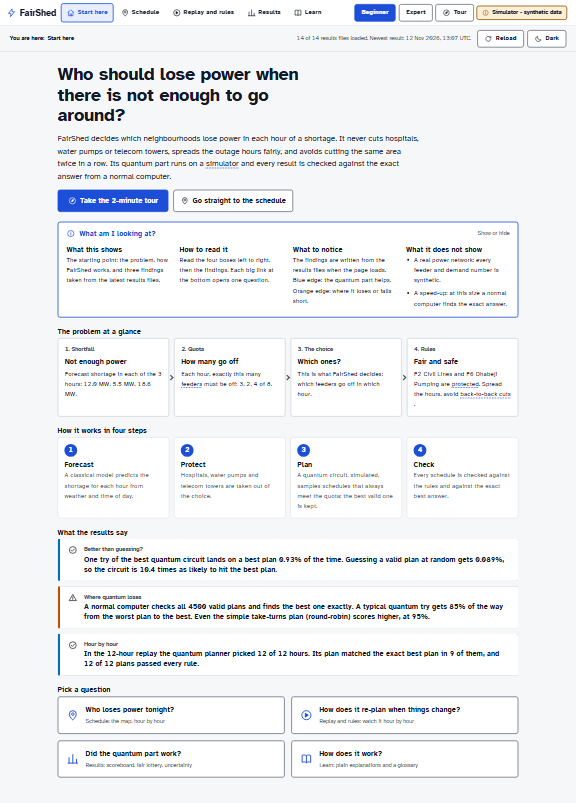
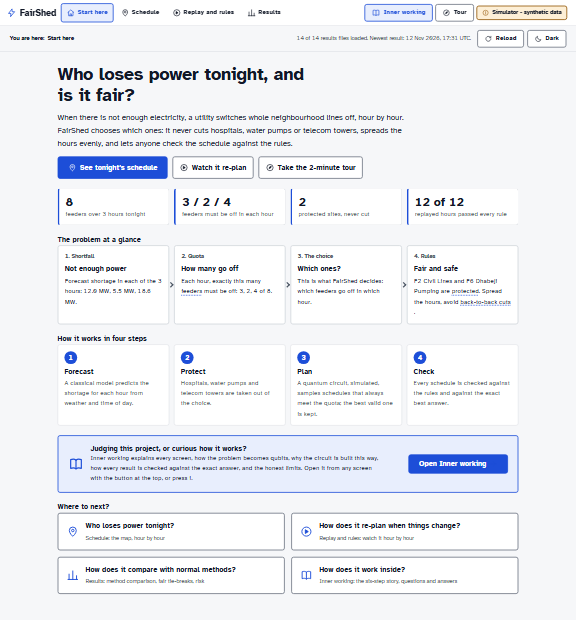
docs: UI guide, README, cheatsheet, demo script and screenshots for the Inner working redesign

Changed region(s): [[0.0938, 0.521, 0.9062, 0.9806], [0.0, 0.0, 0.9062, 0.521], [0.4375, 0.0, 1.0, 0.0919]]

diff --git a/scripts/fill_report.py b/scripts/fill_report.py
@@ -860,8 +860,8 @@ Start the dashboard first: `python scripts/tasks.py ui`, open http://localhost:8
 
 ## 1:20 to 2:00 Quantum stages and real numbers
 
-- **On screen:** Results > Scoreboard (summary, table, proof checklist), then Results > Fair
-  lottery, then Results > Uncertainty and counting.
+- **On screen:** Results > Compare methods (verdict, the four-row table, the "Why this combination"
+  cards, proof checklist), then Results > Fair tie-breaks, then Results > Risk and counting.
 - **Caption:** "Constraint-preserving circuits: every sample is a valid plan."
 - **Voice-over:** "Each hour starts in a Dicke state, so every sample meets the quota and never
   touches a protected feeder. The best variant, {g('best_q_label')}, reaches approximation ratio
@@ -873,7 +873,7 @@ Start the dashboard first: `python scripts/tasks.py ui`, open http://localhost:8
 
 ## 2:00 to 2:30 Honest limits and scale
 
-- **On screen:** Results > Bigger problems: the chart, then the callout "This is not a quantum advantage".
+- **On screen:** Results > Bigger cities: the three tiles and the chart, then the callout "This is not a quantum advantage".
 - **Caption:** "Simulator only. No speed-up claimed."
 - **Voice-over:** "Be clear about the limits. This runs on a simulator, the data is synthetic, and
   at {g('qubits')} qubits a classical brute force finds the exact answer, which is better than our

diff --git a/docs/UI_GUIDE.md b/docs/UI_GUIDE.md
@@ -14,15 +14,28 @@ offline). Screenshots below are in `media/screenshots/` and are regenerated with
 
 ## How every screen works
 
-- **Top bar:** five sections (Start here, Schedule, Replay and rules, Results, Learn), the
-  Beginner and Expert switch, the Tour button and the permanent "Simulator - synthetic data" badge.
+The screens are built for the people who use the schedule. Every explanation sits behind one
+button, **Inner working**, so the pages stay clean and a judge can open the detail on demand.
+
+- **Top bar:** four sections (Start here, Schedule, Replay and rules, Results), the
+  **Inner working** button, the Tour button and the permanent "Simulator - synthetic data" badge.
+- **Inner working button** (or press `i`): opens a side panel about the screen behind it, in this
+  order: one sentence, what you are looking at and how to read it, what to notice (built from the
+  data), how it was made (each step tagged Quantum or Classical), what it does not show, the
+  questions judges ask, and **For specialists** (qubit counts, formulas, every run, raw JSON).
+  On wide screens it sits beside the page; Esc or Close shuts it.
+- **Inner working pages** (linked at the top of the panel, not in the main navigation):
+  - *How FairShed works*: the whole project in six steps (problem, into qubits, the circuit and
+    why, checked against the exact answer, more quantum tools, honest limits), a 30-second
+    version, how to reproduce, and a judging checklist mapped to the rubric.
+  - *Questions judges ask*: 23 short answers in four groups, numbers read from the results.
+  - *The methods*: every algorithm in five parts, marked "Part of the plan" or "Check or comparison".
+  - *Glossary*: every technical word.
 - **Status row:** "You are here", how many results files loaded and when the newest was written,
   Reload, and the light or dark theme.
-- **"What am I looking at?"** on every screen: what it shows, how to read it, what to notice
-  (built from the data), and what it does not show. Open on the first visit, then remembered.
 - **Dotted-underlined words** open a glossary card (click, tap or Enter; Esc closes).
-- **Beginner** shows plain explanations. **Expert** adds qubit counts, formulas, bitstrings,
-  method notes and a raw JSON viewer.
+- **Charts:** each has a takeaway sentence as its title, a "Look at" line saying where to look
+  first, and "How to read this chart".
 - **Missing data:** a red banner names any missing or broken results file, and the affected panel
   says "Not available" instead of showing numbers.
 
@@ -42,15 +55,21 @@ offline). Screenshots below are in `media/screenshots/` and are regenerated with
 
 ![Schedule](../media/screenshots/schedule.png)
 
-- **Read it:** the map shows each feeder as On (teal, check), Off (amber, stripes, power icon) or
-  Protected (blue, shield). Play or drag the slider to move through the hours. Click a feeder for
-  "Off this hour because ...".
-- **Fairness choice:** Least total harm, Balanced, Most even. It switches between plans computed
-  in advance; nothing is re-optimised in the browser.
-- **Numbers to remember:** the headline says how the plan compares with round-robin and whether it
-  is the exact best plan for those weights. See the dashboard.
-- **Say to a judge:** "The quota comes from the forecast; the choice of which feeders comes from
-  the circuit, and we show when that choice is not the exact best one."
+- **Menu bar (top):** *Evening* (Normal evening, Heatwave), *Priority* (Least harm, Balanced,
+  Most even: plans computed in advance along the harm and evenness trade-off) and *Plan made by*
+  (FairShed, or the exact search, round-robin or a random plan for comparison). Nothing is
+  re-optimised in the browser.
+- **Showing line:** which plan is on screen, whether it follows every rule, how its score compares
+  with taking turns, and the exact best score.
+- **Hour control, map and "This hour":** Play or drag the slider. The map shows each area as On
+  (teal, check), Off (amber, stripes, power icon) or Protected (blue, shield); the list beside it
+  says who is off now and why, in one line each. Click an area for the full reason.
+- **Tonight's timetable:** areas by hours, the way load-shedding schedules are published, with the
+  hours each area is off tonight. Click a cell to jump to that hour and read why. Cells that break a
+  rule are outlined in red and listed under the table (try Heatwave with round-robin).
+- **Say to a judge:** "The quota comes from the forecast; the choice of which areas comes from the
+  circuit, and we show when that choice is not the exact best one. Switch to Heatwave and
+  round-robin to see the rules it breaks."
 
 ## Replay and rules: watch it hour by hour
 
@@ -74,44 +93,49 @@ offline). Screenshots below are in `media/screenshots/` and are regenerated with
 - **Say to a judge:** "Anyone can audit a published schedule. Round-robin breaks the back-to-back
   limit in the heatwave scenario; the exact plan passes."
 
-## Results: scoreboard
+## Results: compare methods
 
-![Scoreboard](../media/screenshots/results-scoreboard.png)
+![Compare methods](../media/screenshots/results-scoreboard.png)
 
-- **Read it:** the summary box first. Then the table: valid tries, chance one try finds the best
-  plan (next to the chance of a random guess), how close to best (0 to 100%), and verdicts computed
-  from the data, including "Worse than the exact answer".
-- **Numbers to remember:** cheatsheet rows 1 to 4. The proof checklist at the bottom groups the
-  automated checks.
-- **Say to a judge:** "The constraint-preserving circuits always give valid plans and beat random
-  guessing, but they do not beat the exact answer, and round-robin's single plan scores higher
-  than the average quantum try."
+- **Read it:** the verdict box first. Then the table: four rows, the classical methods a utility
+  could use (exact search, round-robin, a random valid plan) against FairShed's planner, on the
+  same evening and the same score. Columns: score (and how close to the best), finds the very best
+  plan, follows every rule, weighs harm and history, fair when plans tie.
+- **Why this combination:** four cards, each changing one part of the circuit (valid-only start,
+  tuning, mixer, best of many tries) with the separate runs as two bars. FairShed's choice is the
+  highlighted bar. Every quantum variant, including Grover Adaptive Search, is listed under
+  "For specialists" in the Inner working panel.
+- **Numbers to remember:** cheatsheet rows 1 to 5 and 12.
+- **Say to a judge:** "FairShed's plan gets 98% of the way to the exact best, follows every rule,
+  and is the only method that gives tied plans an equal chance. The exact search still wins on
+  score at this size, and we say so on the page."
 
-## Results: fair lottery
+## Results: fair tie-breaks
 
-![Fair lottery](../media/screenshots/results-lottery.png)
+![Fair tie-breaks](../media/screenshots/results-lottery.png)
 
 - **Read it:** each bar is one plan that ties for best; equal bars mean an equal chance.
 - **Say to a judge:** "The Grover mixer sees a plan only through its score, so tied plans get
   exactly the same probability. Choosing among ties is a fair lottery, not circuit bias."
 
-## Results: uncertainty and counting
+## Results: risk and counting
 
-![Uncertainty and counting](../media/screenshots/results-uncertainty.png)
+![Risk and counting](../media/screenshots/results-uncertainty.png)
 
 - **Read it:** on each ruler the black tick is the exact value, the blue dot the quantum estimate,
   and the band its 95% interval. Counting runs on a small 4 feeder by 2 hour block; risk on the
-  8-feeder replay cluster.
-- **Numbers to remember:** cheatsheet rows 6 and 7.
+  8-feeder replay cluster. The bar chart gives each forecast-error scenario's chance in percent.
+- **Numbers to remember:** cheatsheet rows 7 and 8.
 - **Say to a judge:** "Amplitude estimation gives the right numbers here; at this size enumeration
   is easy, so this shows correctness, not speed."
 
-## Results: bigger problems
+## Results: bigger cities
 
-![Bigger problems](../media/screenshots/results-scale.png)
+![Bigger cities](../media/screenshots/results-scale.png)
 
-- **Read it:** one line per problem size; left to right is more simulator memory (bond dimension);
-  up is closer to the best plan.
+- **Read it:** three tiles first (biggest city simulated, memory it took, plan quality there).
+  The chart: left to right the city grows; up is closer to the best plan; one line keeps the most
+  simulator detail (bond dimension), the other the least. "Memory needed" and "Accuracy" switch views.
 - **Say to a judge:** "This is a classical simulation. It shows how much simulator memory the
   circuit needs as the city grows. It is not a quantum advantage."
 
@@ -124,14 +148,19 @@ offline). Screenshots below are in `media/screenshots/` and are regenerated with
 - **Say to a judge:** "The forecast is classical ridge regression on real weather and synthetic
   demand."
 
-## Learn
+## Inner working
 
-![How it works](../media/screenshots/learn-how.png)
+![How FairShed works](../media/screenshots/inner-story.png)
 
-- **How it works:** the problem, the four steps, where the qubits come from.
-- **Algorithms explained:** eleven methods, each with the idea, an everyday example, its job here,
-  which numbers to look at, and its honest limit.
-- **Glossary:** 32 terms with a plain definition, an analogy and what each means in FairShed.
+- **How FairShed works:** the page to send a judge to. The 30-second version, then six numbered
+  steps that follow the judging criteria: the problem and its rules, the switchboard picture of
+  how feeder-hours become qubits, the circuit as a five-box pipeline with the four design-choice
+  cards, the comparison table and proof tiles, the other quantum tools (counting, risk, bigger
+  cities, fair ties), the honest limits and next steps, how to reproduce, and a judging checklist.
+- **Questions judges ask:** grouped answers; "Open all" opens every one.
+- **The methods:** twelve methods, each with the idea, an everyday example, its job here, where
+  to see it, and its honest limit.
+- **Glossary:** every term with a plain definition, an analogy and what it means in FairShed.
 
 ## Defending the honest limits
 

diff --git a/docs/TEAM_CHEATSHEET.md b/docs/TEAM_CHEATSHEET.md
@@ -1,6 +1,6 @@
 # FairShed team cheatsheet
 
-Generated by `node ui/tools/make_cheatsheet.mjs` from `results/*.json` on 2026-11-12 14:17 UTC.
+Generated by `node ui/tools/make_cheatsheet.mjs` from `results/*.json` on 2026-11-12 17:27 UTC.
 Re-run it after `python scripts/tasks.py demo`. Do not edit the numbers by hand.
 
 ## The project in 5 sentences
@@ -28,16 +28,18 @@ Re-run it after `python scripts/tasks.py demo`. Do not edit the numbers by hand.
 
 | # | Number | Where on the dashboard |
 |---|---|---|
-| 1 | 4500 valid plans in the base case, 4 tie for best (18 qubits). | Results > Scoreboard, summary box |
-| 2 | Best circuit (Grover-mixer QAOA, p=3): one try finds a best plan 0.93% of the time, 10.4 times a random guess (0.09%). | Results > Scoreboard, "Chance one try finds the best plan" |
-| 3 | Average quantum try reaches 85% of the way to the best plan; round-robin reaches 95%. Exact search: 100%. | Results > Scoreboard, "How close to best" |
-| 4 | Penalty QAOA gives valid plans in only 19.6% and 27.9% of tries. | Results > Scoreboard, "Valid tries" |
-| 5 | 4 tied best plans each get 0.21% per try; the largest difference is 4.8e-18. | Results > Fair lottery |
-| 6 | Counting on a 4 x 2 block: estimate 9.07, exact 9, interval 8.90 to 9.23. | Results > Uncertainty and counting |
-| 7 | CVaR 95: exact 0.906 MW, estimate 0.911 MW; chance of an unplanned cut 0.125. | Results > Uncertainty and counting |
-| 8 | Replay: 12 of 12 hours planned by the quantum circuit; 9 matched the best plan; 12 passed every rule. | Replay and rules > Watch it hour by hour |
-| 9 | Bigger problems: 39 of 40 points ran, up to 36 qubits; 73% at bond dimension 64. | Results > Bigger problems |
-| 10 | Forecast misses by 1.25 MW per hour on average in the test week (R squared 0.88). | Results > Shortage forecast |
+| 1 | FairShed's plan scores 11.00 against the exact best 10.50 (98% of the way); it matches the exact best at 5 of 6 fairness settings. | Results > Compare methods, the FairShed row |
+| 2 | 4500 valid plans in the base case, 4 tie for best (18 qubits). | Results > Compare methods, table subtitle |
+| 3 | Best circuit (Grover-mixer QAOA, p=3): one try finds a best plan 0.93% of the time, 10.4 times a random guess (0.09%). | Results > Compare methods, card 4 "Keep the best of many tries" |
+| 4 | Average quantum try reaches 85% of the way to the best plan; round-robin reaches 95%. Exact search: 100%. | Results > Compare methods, cards 2 to 4; every run in the Inner working drawer |
+| 5 | Penalty QAOA gives valid plans in only 19.6% and 27.9% of tries. | Results > Compare methods, card 1 "Stay inside the rules" |
+| 6 | 4 tied best plans each get 0.21% per try; the largest difference is 4.8e-18. | Results > Fair tie-breaks |
+| 7 | Counting on a 4 x 2 block: estimate 9.07, exact 9, interval 8.90 to 9.23. | Results > Risk and counting |
+| 8 | CVaR 95: exact 0.906 MW, estimate 0.911 MW; chance of an unplanned cut 0.125. | Results > Risk and counting |
+| 9 | Replay: 12 of 12 hours planned by the quantum circuit; 9 matched the best plan; 12 passed every rule. | Replay and rules > Watch it hour by hour |
+| 10 | Bigger problems: 52 of 52 points ran, up to 72 qubits; 60% at bond dimension 64. | Results > Bigger cities |
+| 11 | Forecast misses by 1.25 MW per hour on average in the test week (R squared 0.88). | Results > Shortage forecast |
+| 12 | 36 of 36 automated proof checks pass. | Results > Compare methods, proof checklist |
 
 ## Honest limits (say these before anyone asks)
 

diff --git a/README.md b/README.md
@@ -24,9 +24,12 @@ telecom towers, and lets anyone audit a published schedule against the rules.
   and MILP, round-robin and random baselines, a ridge-regression shortfall forecast, an audit
   mode that scores any schedule, and a receding-horizon replay that re-plans every hour with the
   quantum window solver.
-- **Dashboard** (`ui/`): static and offline (no build step), seven screens: Plan, Compare and
-  proof, Audit, Replay, Risk and counting, Scale, Forecast. It reads only `results/*.json` and
-  shows "not available" for anything missing or schema-invalid.
+- **Dashboard** (`ui/`): static and offline (no build step). Built for the people who use the
+  schedule: Start here, Schedule, Replay and rules (hour-by-hour replay, rule checker), Results
+  (compare methods, fair tie-breaks, risk and counting, bigger cities, forecast). Every explanation
+  sits behind one **Inner working** button: a side panel about the current screen, plus four pages
+  for judges (how FairShed works in six steps, questions judges ask, the methods, glossary). It
+  reads only `results/*.json` and shows "not available" for anything missing or schema-invalid.
 - **Report** (`docs/report/`): `FairShed_Report.md` and `FairShed_Report.docx`, generated from
   the results files by `scripts/fill_report.py`, with the architecture diagram embedded.
 
@@ -60,7 +63,7 @@ PY=.venv/Scripts/python.exe            # Linux/macOS: PY=.venv/bin/python
 $PY scripts/tasks.py test              # pytest + schema validation of results/
 $PY scripts/tasks.py demo              # regenerate every results file, then test, report, validate
 $PY scripts/tasks.py ui                # dashboard at http://localhost:8000/ui/  (Ctrl+C to stop)
-$PY scripts/tasks.py ui-smoke          # load all 7 screens in headless Chrome/Edge, fail on console errors
+$PY scripts/tasks.py ui-smoke          # load all 13 screens in headless Chrome/Edge, fail on console errors
 $PY scripts/tasks.py report            # rebuild docs/report/ from results/*.json
 $PY scripts/tasks.py status            # write docs/STATUS.md (files, schema checks, test counts)
 ```
@@ -90,7 +93,7 @@ offline grid instead of map tiles.
 - `demo`: rewrites the 20 files in `results/`, `results/checks.json` and `docs/report/`. A failed
   quantum stage deletes its own output file and the dashboard says "not available"; nothing
   is faked.
-- `ui-smoke`: `ui_smoke: all 7 screens passed`, with screenshots in `results/tmp/ui_smoke/`.
+- `ui-smoke`: `ui_smoke: all 13 screens passed`, with screenshots in `results/tmp/ui_smoke/`.
 
 ## Key results
 

diff --git a/docs/demo_script.md b/docs/demo_script.md
@@ -30,8 +30,8 @@ Start the dashboard first: `python scripts/tasks.py ui`, open http://localhost:8
 
 ## 1:20 to 2:00 Quantum stages and real numbers
 
-- **On screen:** Results > Scoreboard (summary, table, proof checklist), then Results > Fair
-  lottery, then Results > Uncertainty and counting.
+- **On screen:** Results > Compare methods (verdict, the four-row table, the "Why this combination"
+  cards, proof checklist), then Results > Fair tie-breaks, then Results > Risk and counting.
 - **Caption:** "Constraint-preserving circuits: every sample is a valid plan."
 - **Voice-over:** "Each hour starts in a Dicke state, so every sample meets the quota and never
   touches a protected feeder. The best variant, Grover-mixer QAOA, p=3, reaches approximation ratio
@@ -43,7 +43,7 @@ Start the dashboard first: `python scripts/tasks.py ui`, open http://localhost:8
 
 ## 2:00 to 2:30 Honest limits and scale
 
-- **On screen:** Results > Bigger problems: the chart, then the callout "This is not a quantum advantage".
+- **On screen:** Results > Bigger cities: the three tiles and the chart, then the callout "This is not a quantum advantage".
 - **Caption:** "Simulator only. No speed-up claimed."
 - **Voice-over:** "Be clear about the limits. This runs on a simulator, the data is synthetic, and
   at 18 qubits a classical brute force finds the exact answer, which is better than our
